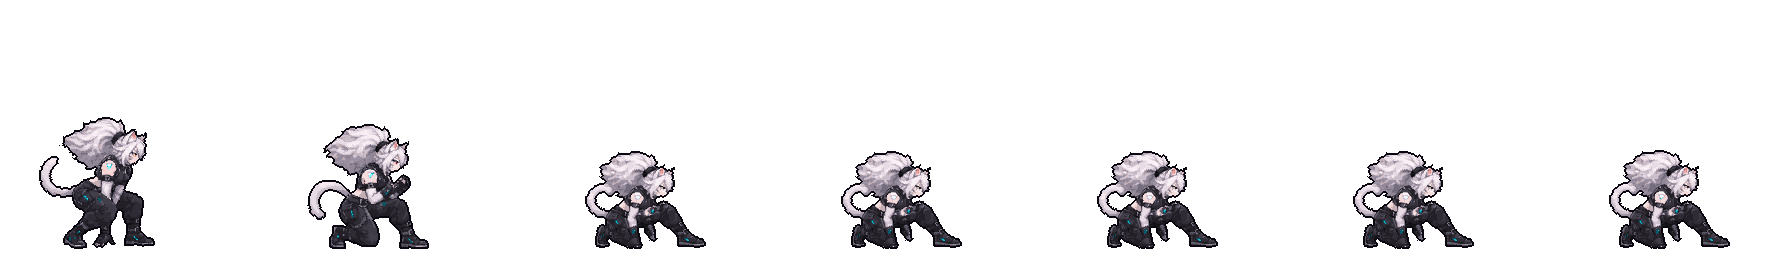
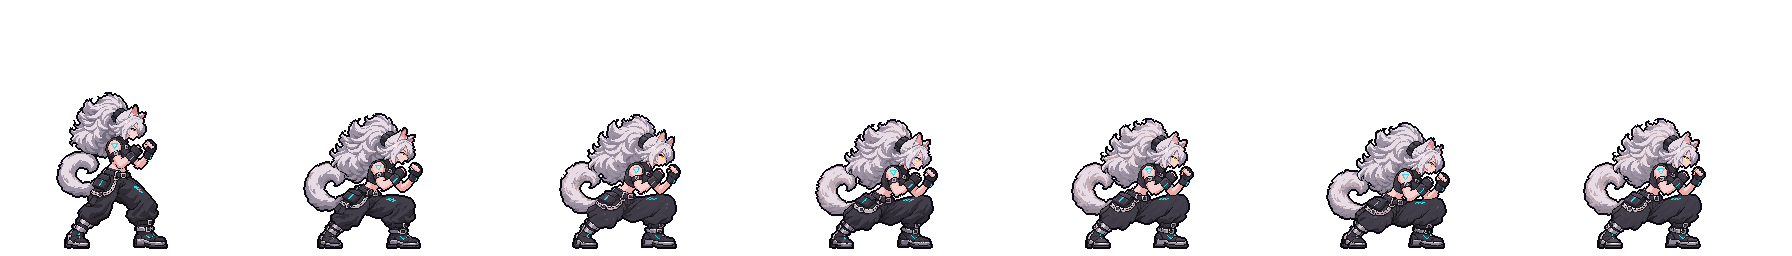
feat(feline) : l'accroupi vient des nouvelles frames, en HD ×2 (#221)
Les 7 frames d'accroupi du développeur (même personnage que la garde de
référence) remplacent l'ancien accroupi :
- la descente sur les frames 1 à 3 ;
- la garde basse qui respire en boucle sur les frames 4, 5, 6 et 5. La frame 7,
  qui remonte, n'entre pas dans la boucle.
L'ancrage est le même que celui de la garde, donc les pieds ne bougent pas. Il
existe une version de jeu et une version HD ×2, toutes deux avec le contour
d'encre.

Claude-Session: https://claude.ai/code/session_01JBLzLMjZS6VPwWpKajS2YB

diff --git a/src/art/feline/cells.ts b/src/art/feline/cells.ts
@@ -60,17 +60,17 @@ export const FELINE_CELLS: Readonly<Record<string, Cell>> = {
     ],
   },
   crouch: {
-    width: 159,
-    height: 136,
-    anchor: { x: 91, y: 133 },
+    width: 128,
+    height: 161,
+    anchor: { x: 84, y: 158 },
     frames: [
-      { x: 2, y: 2, width: 116, height: 132 },
-      { x: 14, y: 9, width: 122, height: 125 },
-      { x: 36, y: 36, width: 121, height: 98 },
-      { x: 36, y: 36, width: 121, height: 98 },
-      { x: 36, y: 36, width: 121, height: 98 },
-      { x: 36, y: 36, width: 121, height: 98 },
-      { x: 36, y: 35, width: 121, height: 99 },
+      { x: 12, y: 2, width: 112, height: 157 },
+      { x: 3, y: 23, width: 120, height: 136 },
+      { x: 3, y: 24, width: 122, height: 135 },
+      { x: 3, y: 29, width: 123, height: 130 },
+      { x: 3, y: 28, width: 123, height: 131 },
+      { x: 2, y: 32, width: 124, height: 127 },
+      { x: 3, y: 28, width: 123, height: 131 },
     ],
   },
   jump: {

diff --git a/tests/tools/feline-hd.test.ts b/tests/tools/feline-hd.test.ts
@@ -9,9 +9,9 @@ const atlasOf = async (path: string): Promise<Atlas> =>
   JSON.parse(new TextDecoder().decode(await readFile(art(path)))) as Atlas;
 
 describe('Feline in HD (tools/sprites/generate.ts keepHd)', () => {
-  it('shows her guard and her walks from their HD images, in both colorways', () => {
-    expect(Object.keys(FELINE.hd ?? {})).toEqual(['idle', 'walkForward', 'walkBack']);
-    expect(Object.keys(FELINE_ALT.hd ?? {})).toEqual(['idle', 'walkForward', 'walkBack']);
+  it('shows her guard, walks and crouch from their HD images, in both colorways', () => {
+    expect(Object.keys(FELINE.hd ?? {})).toEqual(['idle', 'walkForward', 'walkBack', 'crouch']);
+    expect(Object.keys(FELINE_ALT.hd ?? {})).toEqual(['idle', 'walkForward', 'walkBack', 'crouch']);
   });
 
   for (const colorway of ['main', 'alt'] as const) {
